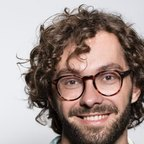
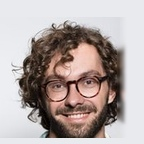
When did you almost meet, a terms page, and stop the contact hashes outliving the account
The headline is a question about time, which is what the app actually answers,
so it now asks that on the site, the welcome screen and the share card.

The photo screen leads with the distinction people care about: link your photo
data, not your photos.

Privacy and Terms in the welcome footer went nowhere. Privacy now opens the
live page and there is a terms page for it to point at. The age line is out
until we decide what the floor is and enforce it, rather than stating one we
do not check.

The Google button asks for the wide style by value. When the native size
constants come back empty every one of them is undefined, which the component's
own switch matches against the icon case first and draws the small square.

The contact hash table was surviving sign out. Its keys are the addresses and
numbers themselves, in the clear, so a copy of the address book was outliving
the account it was read for and waiting for whoever signed in next. unlink()
always cleared it. Signing out and deleting an account now do too.

His avatar overflowed the circle and sat right of centre. Rebuilt on the same
backdrop, scaled to fit with the head on the centre line.

Claude-Session: https://claude.ai/code/session_014fZMHoDKYB2Hc7Nznptepv

diff --git a/docs/terms/index.html b/docs/terms/index.html
@@ -1,0 +1,130 @@
+<!doctype html>
+<html lang="en">
+<head>
+<meta charset="utf-8">
+<meta name="viewport" content="width=device-width, initial-scale=1, viewport-fit=cover">
+<title>Terms of Use · Near Miss</title>
+<meta name="description" content="The agreement between you and Near Miss: what you can expect, and what is expected of you.">
+<meta name="theme-color" content="#F7F2EA">
+<link rel="icon" type="image/png" href="/favicon.png">
+<link rel="apple-touch-icon" href="/apple-touch-icon.png">
+<link rel="preconnect" href="https://fonts.googleapis.com">
+<link rel="preconnect" href="https://fonts.gstatic.com" crossorigin>
+<link href="https://fonts.googleapis.com/css2?family=Bricolage+Grotesque:opsz,wght@12..96,600;12..96,700&family=Figtree:wght@400;500;600;700&display=swap" rel="stylesheet">
+<style>
+  :root {
+    --bg: #F7F2EA; --card: #FFFFFF; --border: #EFE8DD;
+    --ink: #231F1A; --text2: #5E574E; --muted: #7A7268;
+    --violet: #5B3FD0; --violet-tint: #ECE7FB; --sand: #F2ECE2;
+  }
+  * { box-sizing: border-box; }
+  html, body { margin: 0; background: var(--bg); color: var(--ink); }
+  body { font-family: Figtree, system-ui, -apple-system, sans-serif; font-size: 17px; line-height: 1.6; -webkit-font-smoothing: antialiased; }
+  .wrap { max-width: 720px; margin: 0 auto; padding: 24px 20px 48px; }
+  header { display: flex; align-items: center; justify-content: space-between; margin-bottom: 40px; }
+  .logo { font-family: "Bricolage Grotesque", sans-serif; font-weight: 700; font-size: 22px; letter-spacing: -0.02em; color: var(--ink); text-decoration: none; }
+  .back { font-size: 15px; font-weight: 600; color: var(--violet); text-decoration: none; }
+  h1 { font-family: "Bricolage Grotesque", sans-serif; font-weight: 700; font-size: clamp(34px, 6vw, 48px); line-height: 1.05; letter-spacing: -0.03em; margin: 0 0 8px; }
+  .date { color: var(--muted); font-size: 15px; margin: 0 0 32px; }
+  h2 { font-family: "Bricolage Grotesque", sans-serif; font-weight: 700; font-size: 23px; letter-spacing: -0.02em; margin: 40px 0 10px; }
+  h3 { font-size: 17px; font-weight: 700; margin: 24px 0 4px; }
+  p { color: var(--text2); margin: 0 0 14px; }
+  ul { color: var(--text2); padding-left: 22px; margin: 0 0 14px; }
+  li { margin-bottom: 8px; }
+  strong { color: var(--ink); }
+  a { color: var(--violet); }
+  .lede { font-size: 19px; color: var(--ink); }
+  .callout { background: var(--card); border: 1px solid var(--border); border-radius: 18px; padding: 18px 20px; margin: 24px 0; }
+  .callout p:last-child { margin-bottom: 0; }
+  table { width: 100%; border-collapse: collapse; margin: 16px 0 20px; font-size: 15px; }
+  th, td { text-align: left; padding: 10px 12px; border-bottom: 1px solid var(--border); vertical-align: top; color: var(--text2); }
+  th { color: var(--ink); font-weight: 700; background: var(--sand); }
+  td:first-child { color: var(--ink); font-weight: 600; white-space: nowrap; }
+  footer { margin-top: 48px; padding-top: 24px; border-top: 1px solid var(--border); display: flex; justify-content: space-between; gap: 12px; flex-wrap: wrap; font-size: 14px; color: var(--muted); }
+  footer a { color: var(--muted); }
+  @media (max-width: 560px) {
+    table, thead, tbody, tr, th, td { display: block; }
+    thead { display: none; }
+    tr { border-bottom: 1px solid var(--border); padding: 10px 0; }
+    td { border: 0; padding: 2px 0; white-space: normal; }
+    td:first-child { font-weight: 700; color: var(--ink); }
+  }
+</style>
+</head>
+<body>
+<div class="wrap">
+  <header>
+    <a class="logo" href="/">📍 near miss</a>
+    <a class="back" href="/">← Back</a>
+  </header>
+
+  <h1>Terms of Use</h1>
+  <p class="date">Last updated 20 September 2026</p>
+
+  <p class="lede">These are the terms you agree to by using Near Miss. They are written to be read, not to be skipped. If something here seems unfair, write to <a href="mailto:hello@nearmiss.io">hello@nearmiss.io</a> and say so.</p>
+
+  <div class="callout">
+    <p><strong>The short version.</strong> Use Near Miss for yourself, not to track or harass anyone. Only add people you actually know. What you share on a near miss is visible to the friend it involves. You own your content and can delete your account at any time, which removes it. We are a small independent app and cannot promise perfection, so the app is provided as is.</p>
+  </div>
+
+  <h2>Who we are</h2>
+  <p>Near Miss is an independent app made by Jeff Ponchick. Where these terms say "we" or "us", that is who they mean. Where they say "you", they mean the person using the app.</p>
+
+  <h2>Your account</h2>
+  <p>You need an account to use Near Miss. Give accurate information when you create one, keep control of the email address or sign-in provider attached to it, and do not let someone else use it as though they were you.</p>
+  <p>One person, one account. Accounts that exist to impersonate someone, or to look like a real person who is not using the app, will be removed.</p>
+
+  <h2>What Near Miss is for</h2>
+  <p>Near Miss exists to show you moments you and people you know were close to each other without realising. That is the whole purpose, and it sets the boundary for everything else.</p>
+  <p>You may not use Near Miss to:</p>
+  <ul>
+    <li>Follow, monitor, locate or build a picture of anyone's movements, including a friend on the app. Near Miss shows historical moments you shared, not where anyone is.</li>
+    <li>Add someone in order to learn where they have been, rather than because you know them.</li>
+    <li>Harass, threaten, intimidate or frighten anyone, or contact someone who has made clear they do not want it.</li>
+    <li>Share someone's location, photos or near misses outside the app without their agreement.</li>
+    <li>Pretend to be someone else, or add people under a name that is not yours.</li>
+    <li>Scrape, bulk download, reverse engineer or automate the service, or attempt to reach data belonging to anyone else.</li>
+  </ul>
+  <p>Breaking any of these ends your access, without warning where the safety of another person is involved.</p>
+
+  <h2>Other people's data</h2>
+  <p>A near miss involves two people, so it is never only yours. When you add a friend, review photos from a moment, or share one, you are handling information about someone else as well as yourself.</p>
+  <p>Treat it the way you would want yours treated. Anything you take out of the app, whether by screenshot, export or retelling, is yours to be responsible for, and these terms cannot protect someone from what you choose to do with it.</p>
+
+  <h2>Your content</h2>
+  <p>Photos you share, comments you write, reactions and your profile remain yours. You give us permission to store and display them for the purpose of running the app: showing a shared photo to the friend the near miss is with, sending you a notification about a reply, and so on. That permission covers nothing else. We do not sell your content, use it to train models, or show it to anyone the app does not already show it to.</p>
+  <p>When you delete something, we delete it. When you delete your account, everything goes with it. The <a href="/privacy">privacy policy</a> sets out exactly what that covers.</p>
+
+  <h2>Content from other people</h2>
+  <p>Comments and photos on a near miss come from the person you shared it with, not from us. If something is abusive or does not belong there, report it in the app or write to <a href="mailto:hello@nearmiss.io">hello@nearmiss.io</a>. We read reports and act on them, and we may remove content or accounts to keep the app usable and safe.</p>
+  <p>You can also block someone. Blocking deletes every near miss between you and everything either of you shared on them, and stops them finding you again.</p>
+
+  <h2>The app itself</h2>
+  <p>Near Miss, its design, its name and its code belong to us. Using the app does not transfer any of that to you.</p>
+  <p>We may change, add or remove features. Where a change materially reduces what the app does for you, we will say so in the app rather than let you discover it.</p>
+
+  <h2>Availability, and what we cannot promise</h2>
+  <p>Near Miss is provided as is and as available. We work to keep it accurate and running, but we do not promise that it will be uninterrupted, that every near miss it finds is correct, or that it will find every one that happened. Matching is based on the time and location recorded by a phone's camera, which is approximate, and sometimes wrong.</p>
+  <p>Nothing in the app is a record of where anyone actually was. Do not rely on it as one, and do not use it as evidence of anything about another person.</p>
+  <p>To the extent the law allows, we are not liable for indirect or consequential loss arising from your use of the app. Nothing here limits liability that cannot be limited by law, including for death or personal injury caused by negligence, or for fraud.</p>
+
+  <h2>Ending it</h2>
+  <p>You can stop using Near Miss at any time, and delete your account from Settings. Deletion is immediate and cannot be undone.</p>
+  <p>We may suspend or end an account that breaks these terms, or where keeping it would put someone else at risk. Where it is safe and fair to do so, we will tell you why.</p>
+
+  <h2>Changes to these terms</h2>
+  <p>If these terms change in a way that matters, we will tell you in the app before the change takes effect. The date at the top always reflects the current version.</p>
+
+  <h2>Law</h2>
+  <p>These terms are governed by the laws of the State of California, and the courts of California have jurisdiction over any dispute. If you live somewhere that gives you rights that cannot be signed away, those rights still apply to you.</p>
+
+  <h2>Getting in touch</h2>
+  <p>Write to <a href="mailto:hello@nearmiss.io">hello@nearmiss.io</a>. A person answers.</p>
+
+  <footer>
+    <span>© 2026 Near Miss</span>
+    <span><a href="/privacy">Privacy</a> &nbsp;·&nbsp; <a href="mailto:hello@nearmiss.io">hello@nearmiss.io</a></span>
+  </footer>
+</div>
+</body>
+</html>

diff --git a/app/(auth)/welcome.tsx b/app/(auth)/welcome.tsx
@@ -1,11 +1,17 @@
 import { useEffect, useState } from 'react';
-import { Alert, Platform, View } from 'react-native';
+import { Alert, Linking, Platform, View } from 'react-native';
 import { router } from 'expo-router';
 import * as AppleAuthentication from 'expo-apple-authentication';
 import { Body, Button, Display, Screen, TextLink, Wordmark } from '@/components/ui';
 import { WelcomeArt } from '@/components/art';
 import { errorMessage, getGoogleButton, googleAvailable, inExpoGo, useAuth } from '@/lib/auth';
 import { colors, radius } from '@/theme';
+
+/** Google's own value for the wide button style (standard is 0, icon only is 2). */
+const GOOGLE_BUTTON_WIDE = 1;
+
+const PRIVACY_URL = 'https://nearmiss.io/privacy';
+const TERMS_URL = 'https://nearmiss.io/terms';
 
 export default function Welcome() {
   const { signInWithApple, signInWithGoogle, startDemo } = useAuth();
@@ -50,7 +56,7 @@ export default function Welcome() {
           <WelcomeArt />
         </View>
         <View style={{ gap: 12 }}>
-          <Display size={42} style={{ lineHeight: 43 }}>who did you almost meet?</Display>
+          <Display size={42} style={{ lineHeight: 43 }}>when did you almost meet?</Display>
           <Body size={17} color={colors.text2}>See the times you and your friends were steps apart, sometimes years before you met.</Body>
         </View>
         <View style={{ gap: 10, paddingTop: 28 }}>
@@ -69,7 +75,11 @@ export default function Welcome() {
               is theirs rather than an approximation of it. */}
           {googleAvailable && GoogleButton
             ? <GoogleButton
-                size={GoogleButton.Size.Wide}
+                // Wide, spelled out. The component reads its size constants from the native
+                // module, and when that lookup comes back empty every constant is undefined,
+                // which its own switch matches against the icon case first and draws the small
+                // square. 1 is Google's own value for the wide style, so this says it either way.
+                size={GoogleButton.Size?.Wide ?? GOOGLE_BUTTON_WIDE}
                 color={GoogleButton.Color.Light}
                 onPress={google}
                 style={{ width: '100%', height: 54 }}
@@ -83,10 +93,9 @@ export default function Welcome() {
             <Body size={12} color={colors.muted} style={{ textAlign: 'center' }}>Apple and Google sign-in appear in the installed Near Miss app, not in Expo Go.</Body>
           )}
           <View style={{ flexDirection: 'row', justifyContent: 'center', alignItems: 'center', gap: 6 }}>
-            <Body size={13} color={colors.muted}>18+ only ·</Body>
-            <TextLink label="Privacy" size={13} />
+            <TextLink label="Privacy" size={13} onPress={() => Linking.openURL(PRIVACY_URL)} />
             <Body size={13} color={colors.muted}>·</Body>
-            <TextLink label="Terms" size={13} />
+            <TextLink label="Terms" size={13} onPress={() => Linking.openURL(TERMS_URL)} />
           </View>
         </View>
       </View>

diff --git a/docs/index.html b/docs/index.html
@@ -3,9 +3,9 @@
 <head>
 <meta charset="utf-8">
 <meta name="viewport" content="width=device-width, initial-scale=1, viewport-fit=cover">
-<title>Near Miss · Who did you almost meet?</title>
+<title>Near Miss · When did you almost meet?</title>
 <meta name="description" content="See the times you and your friends were steps apart, sometimes years before you met. Coming soon to iPhone.">
-<meta property="og:title" content="Near Miss · Who did you almost meet?">
+<meta property="og:title" content="Near Miss · When did you almost meet?">
 <meta property="og:description" content="See the times you and your friends were steps apart, sometimes years before you met.">
 <meta property="og:image" content="https://nearmiss.io/og.png">
 <meta property="og:url" content="https://nearmiss.io/">
@@ -90,7 +90,7 @@
         <div class="dot" id="invite-initial">?</div>
         <div><strong id="invite-name">A friend</strong> invited you to find out where you almost crossed paths.</div>
       </div>
-      <h1>Who did you almost meet?</h1>
+      <h1>When did you almost meet?</h1>
       <p class="lede">Near Miss finds out the times you and your friends were steps apart, sometimes years before you met.</p>
 
       <form id="waitlist" novalidate>
@@ -132,7 +132,7 @@
 
   <footer>
     <span>© 2026 Near Miss</span>
-    <span><a href="/privacy">Privacy</a> &nbsp;·&nbsp; <a href="mailto:hello@nearmiss.io">hello@nearmiss.io</a></span>
+    <span><a href="/privacy">Privacy</a> &nbsp;·&nbsp; <a href="/terms">Terms</a> &nbsp;·&nbsp; <a href="mailto:hello@nearmiss.io">hello@nearmiss.io</a></span>
   </footer>
 </div>
 

diff --git a/src/lib/contacts.ts b/src/lib/contacts.ts
@@ -295,7 +295,15 @@ export const useContacts = create<ContactsState>((set, get) => ({
   reset: () => {
     // onApp is about this account, not this phone: leaving it cached would show the next person
     // to sign in on this handset a flash of the previous person's matches.
-    AsyncStorage.removeItem(CACHE_KEY).catch(() => {});
+    //
+    // The hash table goes too, and this is the part that was wrong. Its keys are the addresses
+    // and numbers themselves, in the clear, so it is a copy of the address book that was
+    // outliving the account it was read for: sign out, or delete the account outright, and it
+    // stayed on disk for whoever signed in next. unlink() always cleared both. Signing out now
+    // does the same. The cost is that the next sign-in hashes the address book again, which is
+    // a few seconds of work we should be paying.
+    AsyncStorage.multiRemove([CACHE_KEY, HASH_KEY]).catch(() => {});
+    memo.clear();
     set({ access: null, loading: false, error: null, contacts: [], onApp: [], statuses: {}, friends: [], hydrated: false });
   },
 }));

diff --git a/app/reveal.tsx b/app/reveal.tsx
@@ -84,7 +84,7 @@ export default function Reveal() {
                 <Display size={34} style={{ color: colors.white }}>Jeff and Maya were 22m apart at the Fillmore.</Display>
                 <Body size={17} color="rgba(255,255,255,0.9)">March 4, 2016. Three years before they met.</Body>
                 <View style={{ borderTopWidth: 1, borderTopColor: 'rgba(255,255,255,0.25)', paddingTop: 12 }}>
-                  <Body size={14} color="rgba(255,255,255,0.75)">Who did you almost meet? · [domain]</Body>
+                  <Body size={14} color="rgba(255,255,255,0.75)">When did you almost meet? · [domain]</Body>
                 </View>
               </View>
               <Body size={14} color={colors.muted} style={{ textAlign: 'center' }}>Only the place and date are shared, never your path.</Body>

diff --git a/app/settings.tsx b/app/settings.tsx
@@ -387,6 +387,7 @@ export default function SettingsScreen() {
             <ChevronRight size={16} color={colors.faint} />
           </Row>
           <Row><TextLink label="Privacy policy" color={colors.ink} onPress={() => Linking.openURL('https://nearmiss.io/privacy')} /></Row>
+          <Row><TextLink label="Terms of use" color={colors.ink} onPress={() => Linking.openURL('https://nearmiss.io/terms')} /></Row>
           <Row><TextLink label={demo ? 'Leave sample data' : 'Sign out'} color={colors.ink} onPress={confirmSignOut} /></Row>
           <Row last><TextLink label="Delete my account" color={colors.danger} onPress={() => router.push('/delete-account')} /></Row>
         </Group>

diff --git a/app/(onboarding)/scan.tsx b/app/(onboarding)/scan.tsx
@@ -108,7 +108,7 @@ export default function Scan() {
               <ScanArt />
             </View>
             <View style={{ gap: 10 }}>
-              <Display size={34}>Connect your photo history</Display>
+              <Display size={34}>Link your photo data, not your photos</Display>
               <Body size={17} color={colors.text2}>
                 We use the time and location attached to your photos to find when you and your
                 friends were nearby.
